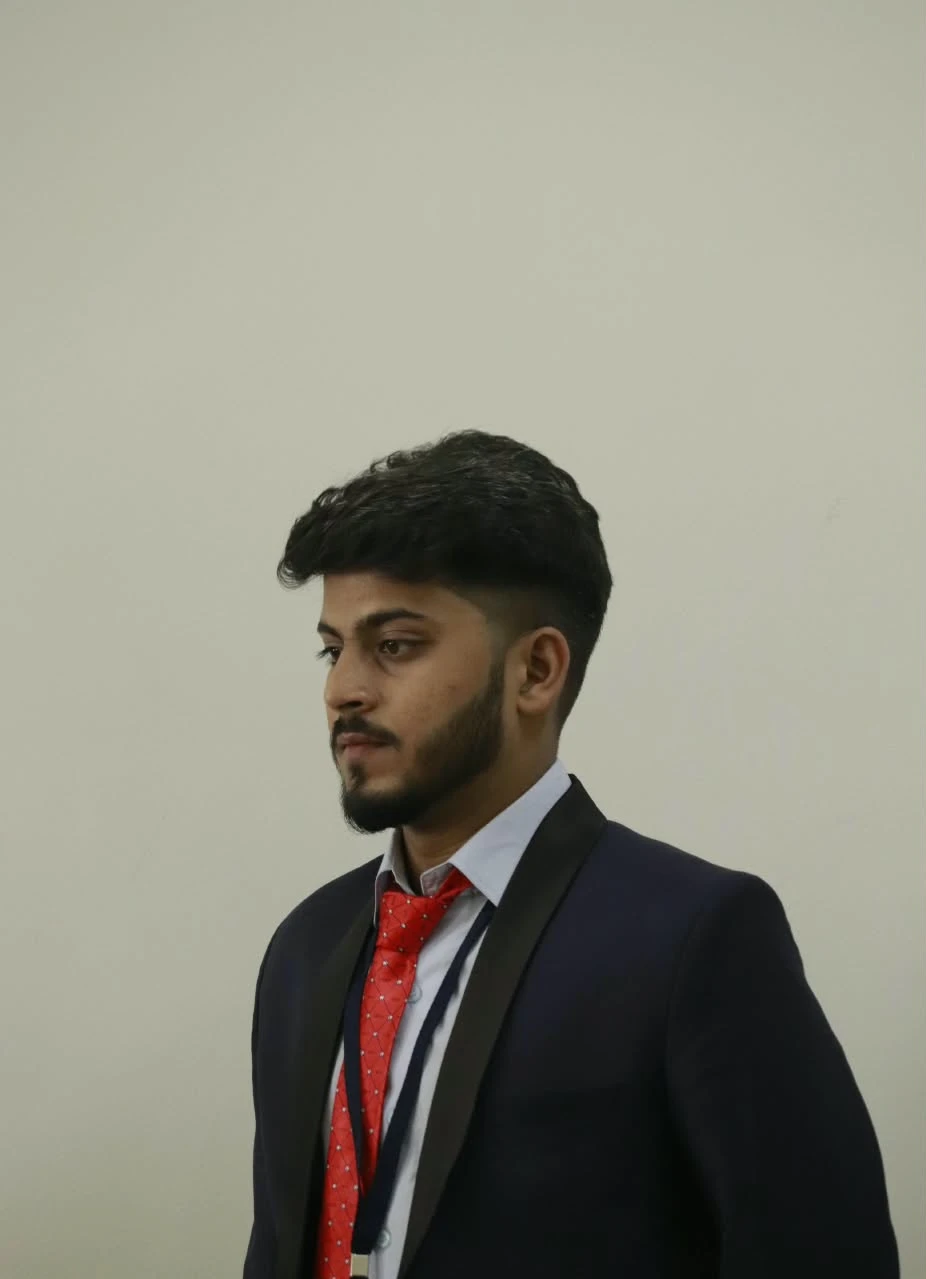
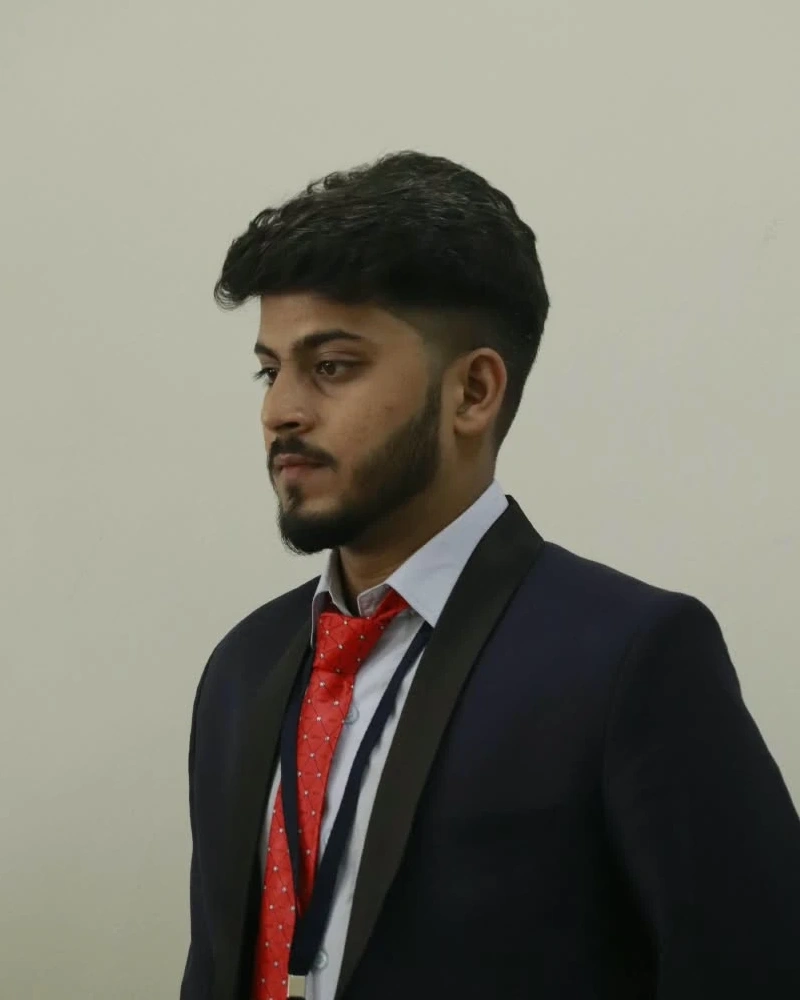
fix: fixed EB image (#74)

Changed region(s): [[0.2188, 0.124, 1.0, 1.0], [0.5312, 0.775, 0.5625, 0.806]]

diff --git a/src/components/sections/AboutFour.jsx b/src/components/sections/AboutFour.jsx
@@ -55,7 +55,7 @@ const AboutFourSection = ({Event}) => {
                 <h3 className="mil-link mil-softened-60 mil-appearance mil-mb-30" style={{fontSize: 40}}>Executive Board</h3>
                 <div className="mil-mb-30" style={{position: "relative", width: "100%", maxWidth: 400, margin: "0 auto"}}>
                     <div className="mil-just-image" style={{paddingBottom: "125%"}}>
-                        <Image src={eb.image} alt={eb.name} fill sizes="(min-width: 768px) 400px, 100vw" style={{objectFit: "cover", objectPosition: "center"}} />
+                        <Image src={eb.image} alt={eb.name} fill sizes="(min-width: 768px) 400px, 100vw" style={{objectFit: "cover", objectPosition: eb.objectPosition || "center", transform: eb.zoom ? `scale(${eb.zoom})` : undefined}} />
                     </div>
                 </div>
                 <h5 className="mil-mb-100 mil-light" style={{marginTop: 20}}>{eb.name}</h5>

diff --git a/src/data/sections/executive-board.js b/src/data/sections/executive-board.js
@@ -8,6 +8,8 @@ const executiveBoard = {
     image: "/img/ebs/chair.UNSCW.webp",
     name: "Abuzar Shaikh",
     role: "Chairperson",
+    objectPosition: "center bottom",
+    zoom: 1.2,
   },
   WTO: {
     image: "/img/ebs/chair.WTO.webp",
